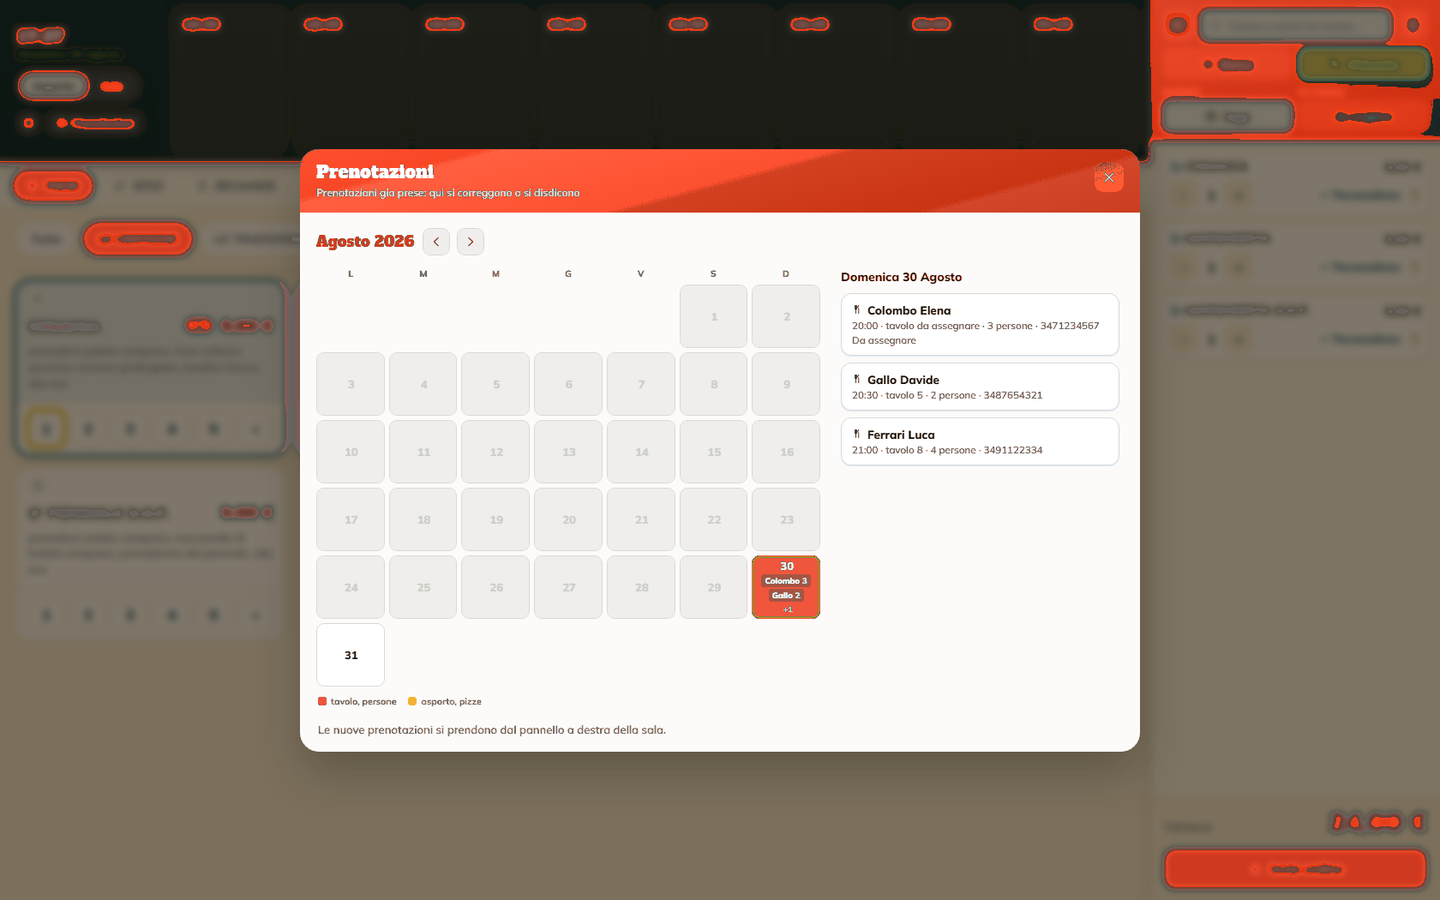
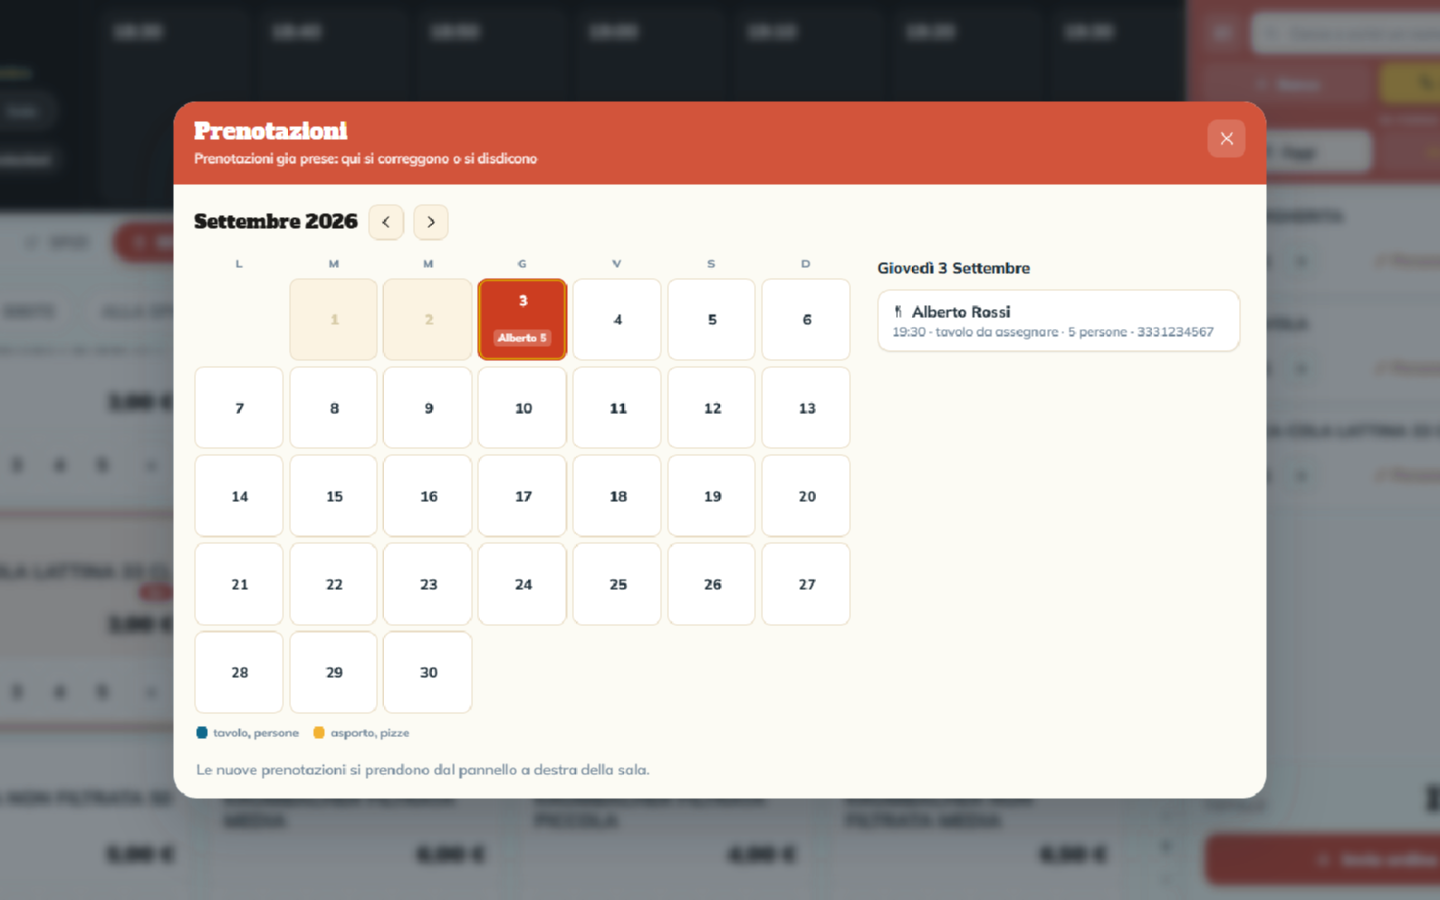
Carosello: le schermate nuove, e le didascalie che le descrivono
I due schermi neri sono spenti da agosto: chi arrivava in fondo leggeva
"Il conto della giornata" e "Il magazzino sotto controllo" sotto un
tablet spento. Ora ci sono le schermate vere.

- rubrica e prenotazioni: sostituite, le vecchie avevano il fondo
  sfocato e coperto di macchie;
- storico ordini e quantità: prendono il posto dei segnaposto;
- aspetto: schermata nuova, ottava del giro.

Le didascalie di quelle due erano promesse, non descrizioni. "Il conto
della giornata" diceva "il totale degli incassi diviso per contanti e
carte", ma la schermata è il riepilogo ordini, che scrive lei stessa che
gli incassi fiscali stanno altrove; e il magazzino mostra come si contano
i panetti, non la giacenza. Riscritte su quello che si vede.

Le foto arrivavano a 1512x806 mentre il tablet è 16:10, e il CSS ritaglia
per riempire: si perdevano 111 px per lato. Rimesse a 1440x900 in due
modi, secondo com'è fatta l'immagine: dove la finestra utile sta al
centro (rubrica, prenotazioni) si ritaglia e non si perde niente; dove il
contenuto arriva ai bordi (le tre di Impostazioni, con la colonna di
sinistra) si allunga in altezza ripetendo la prima e l'ultima riga, che
lì sono tinte piatte.

Rimesse anche in ordine le didascalie 5 e 6, che nel markup erano
invertite.

Claude-Session: https://claude.ai/code/session_01XMQMNiF3YgHm3cvFE8WRYR

diff --git a/pizzerie/index.html b/pizzerie/index.html
@@ -141,9 +141,9 @@
               <img class="tablet__slide" data-index="2" loading="lazy" width="1440" height="900" src="img/schermata-sala.png" alt="">
               <img class="tablet__slide" data-index="3" loading="lazy" width="1440" height="900" src="img/schermata-rubrica.png" alt="">
               <img class="tablet__slide" data-index="4" loading="lazy" width="1440" height="900" src="img/schermata-prenotazioni.png" alt="">
-              <!-- schermate non ancora disponibili: schermo spento in attesa delle immagini vere -->
-              <img class="tablet__slide" data-index="5" loading="lazy" width="1440" height="900" src="img/schermata-in-arrivo.png" alt="">
-              <img class="tablet__slide" data-index="6" loading="lazy" width="1440" height="900" src="img/schermata-in-arrivo.png" alt="">
+              <img class="tablet__slide" data-index="5" loading="lazy" width="1440" height="900" src="img/schermata-storico.png" alt="">
+              <img class="tablet__slide" data-index="6" loading="lazy" width="1440" height="900" src="img/schermata-panetti.png" alt="">
+              <img class="tablet__slide" data-index="7" loading="lazy" width="1440" height="900" src="img/schermata-aspetto.png" alt="">
             </div>
           </div>
         </div>
@@ -167,22 +167,27 @@
             <div class="tablet-demo__caption-item" data-index="3">
               <span class="cap-tag">Piano base</span>
               <h3>La rubrica dei clienti</h3>
-              <p>Avrai sempre a disposizione la rubrica clienti per ritrovarli facilmente e velocizzare la prenotazione.</p>
+              <p>Scrivi due lettere del nome e il cliente &egrave; l&igrave;, con telefono e indirizzo. Chi ha gi&agrave; ordinato una volta non deve ridettarteli.</p>
             </div>
             <div class="tablet-demo__caption-item" data-index="4">
               <span class="cap-tag">Piano base</span>
               <h3>Le prenotazioni sul calendario</h3>
-              <p>Tavoli e asporti si prenotano anche per i giorni dopo. Ogni giorno trovi l'elenco delle prenotazioni con: orario, nome e numero dei coperti.</p>
-            </div>
-            <div class="tablet-demo__caption-item" data-index="6">
-              <span class="cap-tag">Piano base</span>
-              <h3>Il magazzino sempre sotto controllo.</h3>
-              <p>Gestisci il magazzino sapendo sempre quanti panetti d'impasto sono disponibili per la giornata.</p>
+              <p>Il mese davanti, coi giorni che hanno qualcosa segnato. Apri il giorno e trovi orario, nome, coperti e numero di telefono: da qui si correggono e si disdicono.</p>
             </div>
             <div class="tablet-demo__caption-item" data-index="5">
               <span class="cap-tag">Piano base</span>
-              <h3>Il conto della giornata</h3>
-              <p>Alla chiusura hai il totale delle vendite e degli incassi, diviso per contanti, carte e altro.</p>
+              <h3>Lo storico degli ordini</h3>
+              <p>Oggi, ieri o gli ultimi sette giorni: scegli il periodo e vedi quanti ordini sono e quanto hanno fatto, tenendo separati tavolo e asporto. Ogni riga si apre e mostra cosa conteneva.</p>
+            </div>
+            <div class="tablet-demo__caption-item" data-index="6">
+              <span class="cap-tag">Piano base</span>
+              <h3>I panetti li conta la cassa</h3>
+              <p>Dici quanti panetti hai per ogni impasto e sotto quale numero vuoi l'avviso. Quando finiscono la cassa smette di venderli, a meno che tu non decida il contrario.</p>
+            </div>
+            <div class="tablet-demo__caption-item" data-index="7">
+              <span class="cap-tag">Piano base</span>
+              <h3>I colori sono i tuoi</h3>
+              <p>Sei tinte pronte, oppure cambi i colori uno per uno e vedi l'effetto mentre lo fai. Il gestionale che sta sul tuo banco non deve sembrare di qualcun altro.</p>
             </div>
           </div>
           <div class="scrolly-cue" id="scrollyCue">

diff --git a/pizzerie/js/pizzerie.js b/pizzerie/js/pizzerie.js
@@ -166,10 +166,11 @@
       'Schermata comande: presa ordini al banco e al telefono.',
       'Schermata forno: fasce orarie con il tetto di ordini per ogni slot.',
       'Schermata sala: planimetria dei tavoli con stato libero, prenotato, occupato.',
-      'Schermata rubrica: clienti con telefono e indirizzo.',
-      'Schermata prenotazioni: calendario di tavoli e asporti.',
-      'Schermata conto della giornata: in arrivo.',
-      'Schermata magazzino: in arrivo.'
+      'Schermata rubrica: elenco dei clienti con telefono e indirizzo, con la ricerca per nome.',
+      'Schermata prenotazioni: calendario del mese e dettaglio del giorno scelto.',
+      'Schermata storico ordini: filtri per periodo e tipo, totale e elenco degli ordini.',
+      'Schermata quantita: panetti per impasto, soglia di avviso e cosa fare quando finiscono.',
+      'Schermata aspetto: tavolozze pronte e colori dell\'app, con anteprima dal vivo.'
     ];
 
     var track = document.getElementById('tabletTrack');
